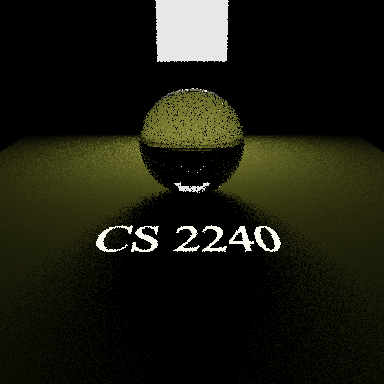
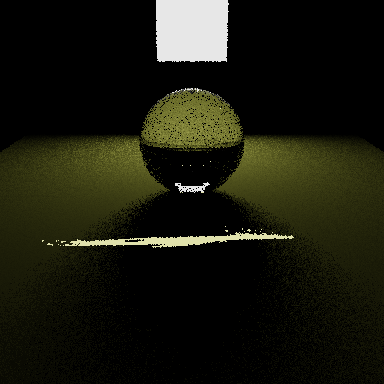
Integrated tps

diff --git a/pathtracer.cpp b/pathtracer.cpp
@@ -37,7 +37,7 @@ PathTracer::PathTracer(Scene *scene,
     if (m_usePhotonMapping) {
         generatePhotons(*scene);
         if(doStylizedCaustics) {
-            stylizedCaustics = StylizedCaustics(3, 1.5);
+            stylizedCaustics = StylizedCaustics(2, 1.5);
             // Sample images
             auto imageSamples = stylizedCaustics.sample(531, 171, "./example-scenes/images/CS2240.png");
             // Set plane
@@ -53,8 +53,6 @@ PathTracer::PathTracer(Scene *scene,
             stylizedCaustics.assign(imageSamples);
             std::cout << "Finish assign" << std::endl;
 
-
-
             //For Yingtong
             //You have set A (n points), and you sample 300 points from A
             //Let the positions of the 300 points be std::vector<Eigen::Vector2f> A_sample;
@@ -62,26 +60,34 @@ PathTracer::PathTracer(Scene *scene,
             //You run the greedy algorithm and find the new 2D position of the 300 points,
             //Let the new positions of the 300 points be std::vector<Eigen::Vector2f> B_sample;
 
+            std::vector<Eigen::Vector2f> A_sample = stylizedCaustics.getSubsetSourcesPos();
+            std::vector<Eigen::Vector2f> B_sample = stylizedCaustics.getSubsetTargetsPos();
+
             //Do TPS here
             //step 1: init tps
-//            tps tps_example;
-//            tps_example.init(A_sample, B_sample);
+            tps tpsSolver;
+            tpsSolver.init(A_sample, B_sample);
 
             //step 2: use tps to find the position of rest n-300 points
             //Let std::vector<Eigen::Vector2f> A_rest be the position of these n-300 points
             //Let std::vector<Eigen::Vector2f> B_rest be the target position of these n-300 points we want to solve
 
-//            for(int i=0; i< A_rest.size(); i++){
-//                Eigen::Vector2f result = tps_example.solve(A_rest[i]);
-//                B_rest[i] = result;
-//            }
-
-
+            std::vector<Eigen::Vector2f> A = stylizedCaustics.getSources();
+            std::vector<Eigen::Vector2f> B(A.size());
+            for(int i = 0; i< A.size(); i++){
+                Eigen::Vector2f result = tpsSolver.tps_solve(A[i]);
+                B[i] = result;
+            }
+            stylizedCaustics.setFinalResults(B);
             //For Yutang
+            // Note from Yingtong: I didn't declare B_rest above, stylizedCaustics.finalResults contains all n points. I can modify the code if it's not convenient.
             //Now you have std::vector<Eigen::Vector2f> B_sample, containing 300 points
             //and std::vector<Eigen::Vector2f> B_rest containing n-300 points
             //Do refinement here
+            // Note from Yingtong: Guess refinement is better to be a member function of class StylizedCaustics, since all data is stored in StylizedCaustics.
+            // or make the stylizedCaustics a parameter of the function
 
+            // To show the final result, go to move() function in stylizedcaustics.cpp, uncomment the final results code
 
         }
     }

diff --git a/stylized/stylizedcaustics.h b/stylized/stylizedcaustics.h
@@ -22,6 +22,21 @@ public:
     void calculateAverageOrigin(const std::vector<Photon>& photons);
     Eigen::Vector3f getAverageOrigin() {return averageOrigin;}
 
+    std::vector<Eigen::Vector2f> getSubsetSourcesPos();
+    std::vector<Eigen::Vector2f> getSubsetTargetsPos();
+    std::vector<Eigen::Vector2f> getSources() {return sources;}
+    std::vector<Eigen::Vector2f> getTargets() {return targets;}
+
+    std::vector<Eigen::Vector2f> finalResults;
+    void setFinalResults(std::vector<Eigen::Vector2f>& B) {
+        finalResults.resize(m);
+        for(int i = 0; i < m; i++)
+        {
+            if(sourcesIndexInSubset.find(i) != sourcesIndexInSubset.end()) finalResults[i] = targets[assignmentMap[i]];
+            else finalResults[i] = B[i];
+        }
+    }
+
 private:
     float energy(float a, float b);
     void initializeMatrices();
@@ -33,15 +48,19 @@ private:
     int n;  // Number of points in subsets
     std::vector<Eigen::Vector2f> sources;  // Points of source caustics A
     std::vector<Eigen::Vector2f> targets;  // Points of target image B
-    std::vector<int> subsetSourcesIndex;
-    std::vector<int> subsetTargetsIndex;
-    std::unordered_map<int, int> sourcesIndexInSubset;
-    std::unordered_map<int, int> targetsIndexInSubset;
+    std::vector<int> subsetSourcesIndex;  // Index of chosen points
+    std::vector<int> subsetTargetsIndex;  // Index of chosen points
+    std::unordered_map<int, int> sourcesIndexInSubset;  // key is the index from vector sources, value is its index in sourcesIndexInSubset
+    std::unordered_map<int, int> targetsIndexInSubset;  // similar
     std::vector<int> assignmentMap;  // ith point in A should map to assignmentMap[i]th point in B
     Eigen::Vector3f averageOrigin;
 
+    // For greedy algorithm
     Eigen::MatrixXf DA, DB, DAB;
     float beta = 0.5;
+
+    // Results position after tps
+    std::vector<Eigen::Vector2f> tpsPos;
 
     std::vector<int> photonsMap;
 };

diff --git a/stylized/stylizedcaustics.cpp b/stylized/stylizedcaustics.cpp
@@ -107,7 +107,10 @@ void StylizedCaustics::assign(std::vector<Eigen::Vector2f>& images) {
 std::vector<Eigen::Vector2f> StylizedCaustics::move(float t) {
     std::vector<Eigen::Vector2f> res(sources.size());
     for(int i = 0; i < sources.size(); i++) {
-        res[i] = t * (targets[assignmentMap[i]] - sources[i]) + sources[i];
+        // results after tps
+        res[i] = t * (finalResults[i] - sources[i]) + sources[i];
+        // final results
+//        res[i] = t * (targets[assignmentMap[i]] - sources[i]) + sources[i];
     }
     return res;
 }
@@ -133,6 +136,22 @@ void StylizedCaustics::calculateAverageOrigin(const std::vector<Photon>& photons
     averageOrigin = {0, 0, 0};
     for(const auto& photon: photons) averageOrigin += photon.lastHit;
     averageOrigin /= photons.size();
+}
+
+std::vector<Eigen::Vector2f> StylizedCaustics::getSubsetSourcesPos() {
+    std::vector<Eigen::Vector2f> res(n);
+    for(int i = 0; i < n; i++) {
+        res[i] = sources[subsetSourcesIndex[i]];
+    }
+    return res;
+}
+
+std::vector<Eigen::Vector2f> StylizedCaustics::getSubsetTargetsPos() {
+    std::vector<Eigen::Vector2f> res(n);
+    for(int i = 0; i < n; i++) {
+        res[i] = targets[assignmentMap[subsetSourcesIndex[i]]];
+    }
+    return res;
 }
 
 float StylizedCaustics::energy(float a, float b) {
